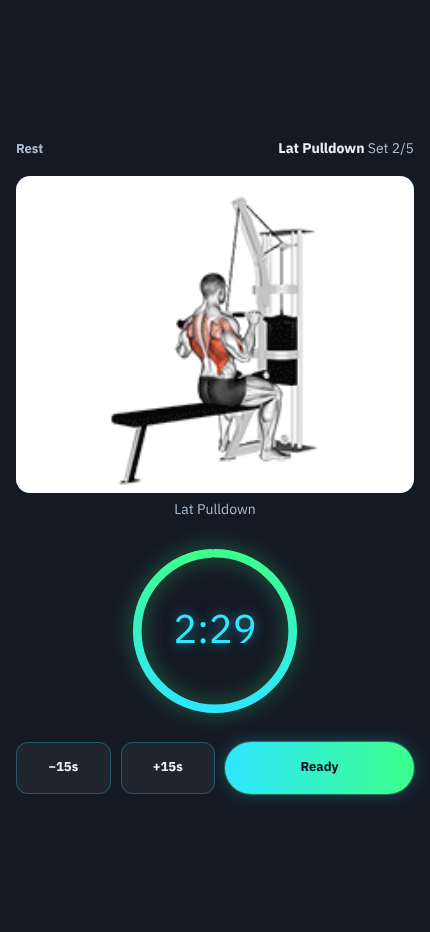
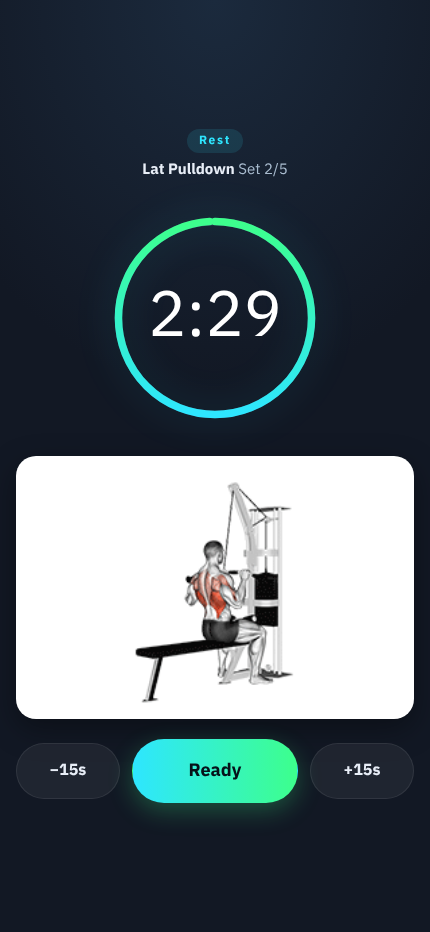
Rest screen: calmer, centered layout (#178)
* docs: Today critique snapshot + redesign intent

Claude-Session: https://claude.ai/code/session_01TA1QFnqgBxBRFsiXemJ9Lg

* chore: ignore impeccable live-server state

Claude-Session: https://claude.ai/code/session_01TA1QFnqgBxBRFsiXemJ9Lg

* Today: plan first, one start button, inline meal tick, folded recovery

Claude-Session: https://claude.ai/code/session_01TA1QFnqgBxBRFsiXemJ9Lg

* docs: merge PR automatically once npm test passes

Claude-Session: https://claude.ai/code/session_01TA1QFnqgBxBRFsiXemJ9Lg

* docs: no OK wait between steps

Claude-Session: https://claude.ai/code/session_01TA1QFnqgBxBRFsiXemJ9Lg

* Today: recovery-aware start, undo on meal tick, progress bars, direct start

Claude-Session: https://claude.ai/code/session_01TA1QFnqgBxBRFsiXemJ9Lg

* Today: rested program leads, rest-day exit, inline meal cancel, over-target bar

Claude-Session: https://claude.ai/code/session_01TA1QFnqgBxBRFsiXemJ9Lg

* Today: body weight + 7-day change + weigh-in in the body card

Claude-Session: https://claude.ai/code/session_01TA1QFnqgBxBRFsiXemJ9Lg

* Today: body card shows weight, muscle mass and body fat

Claude-Session: https://claude.ai/code/session_01TA1QFnqgBxBRFsiXemJ9Lg

* Today: weigh-in opens the full body-log sheet

Claude-Session: https://claude.ai/code/session_01TA1QFnqgBxBRFsiXemJ9Lg

* Today: headline matches suggestion, inline cancel, blank weigh-in, fits above tab bar

Claude-Session: https://claude.ai/code/session_01TA1QFnqgBxBRFsiXemJ9Lg
[…]

diff --git a/public/index.html b/public/index.html
@@ -8,11 +8,11 @@
 <meta name="apple-mobile-web-app-status-bar-style" content="black-translucent">
 <meta name="apple-mobile-web-app-title" content="WeightGram">
 <link rel="manifest" href="/manifest.webmanifest">
-<link rel="apple-touch-icon" href="/apple-touch-icon.png?v=138602">
+<link rel="apple-touch-icon" href="/apple-touch-icon.png?v=138603">
 <title>WeightGram</title>
 <link rel="stylesheet" href="https://fonts.googleapis.com/css2?family=IBM+Plex+Sans+Thai:wght@400;500;700&family=IBM+Plex+Mono:wght@400;500&family=Share+Tech+Mono&display=swap">
 <style>:root{padding-top:env(safe-area-inset-top,0px);padding-bottom:env(safe-area-inset-bottom,0px)}*{-webkit-tap-highlight-color:transparent}body{margin:0;font-size:var(--t-sm);font-family:system-ui,sans-serif}img{max-width:100%}[hidden]{display:none!important}</style>
-<link rel="stylesheet" href="/css/app.css?v=138602">
+<link rel="stylesheet" href="/css/app.css?v=138603">
 </head><body>
 
 <div class="wrap">
@@ -278,37 +278,37 @@
   </div>
 </div>
 
-<script src="/js/core.js?v=138602"></script>
-<script src="/js/food.js?v=138602"></script>
-<script src="/js/locations.js?v=138602"></script>
-<script src="/js/programs.js?v=138602"></script>
-<script src="/js/run.js?v=138602"></script>
-<script src="/js/workout.js?v=138602"></script>
-<script src="/js/exercise-edit.js?v=138602"></script>
-<script src="/js/edit-tx.js?v=138602"></script>
-<script src="/js/exercise-library.js?v=138602"></script>
-<script src="/js/program-manager.js?v=138602"></script>
-<script src="/js/hero.js?v=138602"></script>
-<script src="/js/rest-timer.js?v=138602"></script>
-<script src="/js/auth.js?v=138602"></script>
-<script src="/js/push.js?v=138602"></script>
-<script src="/js/data-io.js?v=138602"></script>
-<script src="/js/sync.js?v=138602"></script>
-<script src="/js/muscle-map.js?v=138602"></script>
-<script src="/js/progress.js?v=138602"></script>
-<script src="/js/history-chart.js?v=138602"></script>
-<script src="/js/stats-extra.js?v=138602"></script>
-<script src="/js/meal-plan.js?v=138602"></script>
-<script src="/js/undo.js?v=138602"></script>
-<script src="/js/home.js?v=138602"></script>
-<script src="/js/share.js?v=138602"></script>
-<script src="/js/explore.js?v=138602"></script>
-<script src="/js/onboarding.js?v=138602"></script>
-<script src="/js/account.js?v=138602"></script>
-<script src="/js/share-card.js?v=138602"></script>
-<script src="/js/number-pad.js?v=138602"></script>
-<script src="/js/refresh.js?v=138602"></script>
-<script src="/js/app.js?v=138602"></script>
+<script src="/js/core.js?v=138603"></script>
+<script src="/js/food.js?v=138603"></script>
+<script src="/js/locations.js?v=138603"></script>
+<script src="/js/programs.js?v=138603"></script>
+<script src="/js/run.js?v=138603"></script>
+<script src="/js/workout.js?v=138603"></script>
+<script src="/js/exercise-edit.js?v=138603"></script>
+<script src="/js/edit-tx.js?v=138603"></script>
+<script src="/js/exercise-library.js?v=138603"></script>
+<script src="/js/program-manager.js?v=138603"></script>
+<script src="/js/hero.js?v=138603"></script>
+<script src="/js/rest-timer.js?v=138603"></script>
+<script src="/js/auth.js?v=138603"></script>
+<script src="/js/push.js?v=138603"></script>
+<script src="/js/data-io.js?v=138603"></script>
+<script src="/js/sync.js?v=138603"></script>
+<script src="/js/muscle-map.js?v=138603"></script>
+<script src="/js/progress.js?v=138603"></script>
+<script src="/js/history-chart.js?v=138603"></script>
+<script src="/js/stats-extra.js?v=138603"></script>
+<script src="/js/meal-plan.js?v=138603"></script>
+<script src="/js/undo.js?v=138603"></script>
+<script src="/js/home.js?v=138603"></script>
+<script src="/js/share.js?v=138603"></script>
+<script src="/js/explore.js?v=138603"></script>
+<script src="/js/onboarding.js?v=138603"></script>
+<script src="/js/account.js?v=138603"></script>
+<script src="/js/share-card.js?v=138603"></script>
+<script src="/js/number-pad.js?v=138603"></script>
+<script src="/js/refresh.js?v=138603"></script>
+<script src="/js/app.js?v=138603"></script>
 
 <div id="rec-wrap" class="stack" style="gap:10px" hidden><div class="rcf-head"><div class="sec-t" data-i="การฟื้นตัวของกล้ามเนื้อ">การฟื้นตัวของกล้ามเนื้อ</div><button class="btn sm" id="rec-cfg">⚙ <span data-i="ตั้งเวลาฟื้นตัว">ตั้งเวลาฟื้นตัว</span></button></div><div class="card" id="rec-body"></div></div>
 </body></html>

diff --git a/public/css/app.css b/public/css/app.css
@@ -1480,3 +1480,23 @@ html{-webkit-text-size-adjust:100%;touch-action:manipulation}
 .rest-gif img{width:100%;max-height:34vh;object-fit:contain;border-radius:14px;background:#fff}
 .rest-gif figcaption{color:var(--muted);font-size:var(--t-sm,14px)}
 body:has(#rest:not([hidden])) .tabbar{display:none!important}
+/* rest screen — calm, centered */
+#rest:not([hidden]){background:radial-gradient(120% 70% at 50% 0%,#1b2a3d 0%,#121824 60%)!important}
+#rest .rest-in{gap:20px!important;max-width:400px}
+#rest .rest-top{display:flex!important;flex-direction:column;align-items:center;gap:6px;text-align:center}
+#rest .rest-top .label{display:inline-block;font:600 12px/1 var(--f-body)!important;letter-spacing:.14em!important;text-transform:uppercase;color:var(--cyan)!important;background:color-mix(in srgb,var(--cyan) 12%,transparent);padding:6px 12px;border-radius:999px}
+#rest .rest-next{text-align:center!important;font:400 15px/1.4 var(--f-body)!important;color:var(--muted)!important}
+#rest .rest-next b{color:var(--text,#e8eef7)!important;font-weight:600}
+#rest .rest-dial{order:2;width:236px!important}
+#rest .rest-ring{width:236px!important;height:236px!important;filter:drop-shadow(0 0 18px rgba(46,230,255,.18))!important}
+#rest .rest-ring circle{stroke-width:7}
+#rest .rest-dial .rest-time{font:300 64px/1 var(--f-body)!important;color:#fff!important;text-shadow:none!important;letter-spacing:-.02em;font-variant-numeric:tabular-nums}
+#rest .rest-dial .rest-time.done{color:var(--up)!important}
+#rest .rest-gif{order:3;background:#fff;border-radius:20px;padding:10px 10px 8px;box-shadow:0 10px 30px rgba(0,0,0,.35)}
+#rest .rest-gif img{max-height:26vh;border-radius:12px;background:#fff}
+#rest .rest-gif figcaption{color:#475569!important;font:500 13px/1.2 var(--f-body)}
+#rest .actions{order:4;grid-template-columns:1fr 1.6fr 1fr!important;gap:12px!important;align-items:center}
+#rest #rest-minus{order:1}#rest #rest-skip{order:2}#rest #rest-plus{order:3}
+#rest #rest-minus,#rest #rest-plus{height:56px;border-radius:999px!important;background:rgba(255,255,255,.06)!important;border:1px solid rgba(255,255,255,.08)!important;color:var(--text,#e8eef7)!important;font:600 16px/1 var(--f-body)!important}
+#rest #rest-skip{height:64px;border-radius:999px!important;font:700 18px/1 var(--f-body)!important;box-shadow:0 8px 24px rgba(61,255,140,.25)!important}
+#rest .rest-gif{box-sizing:border-box;width:100%;padding:10px}#rest .rest-gif figcaption{display:none}

diff --git a/docs/work/2026-11-21-train-calm/plan-rest-polish.md b/docs/work/2026-11-21-train-calm/plan-rest-polish.md
@@ -1,0 +1,5 @@
+# Rest screen polish
+- [x] soft gradient bg, REST pill + next set centered
+- [x] bigger thin ring, light 64px time
+- [x] gif in white card, no duplicate caption
+- [x] −15s · Ready · +15s pill row, Ready centre
